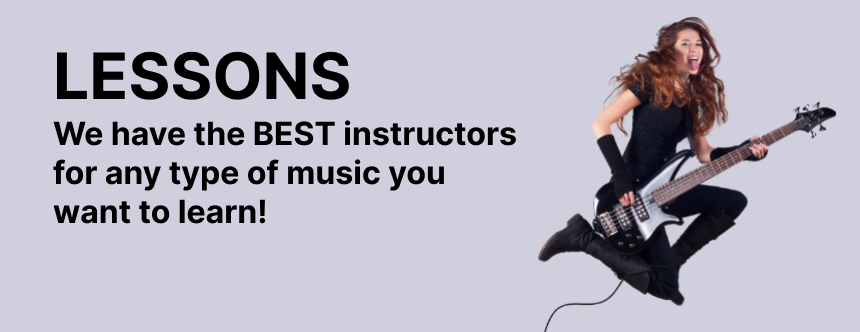
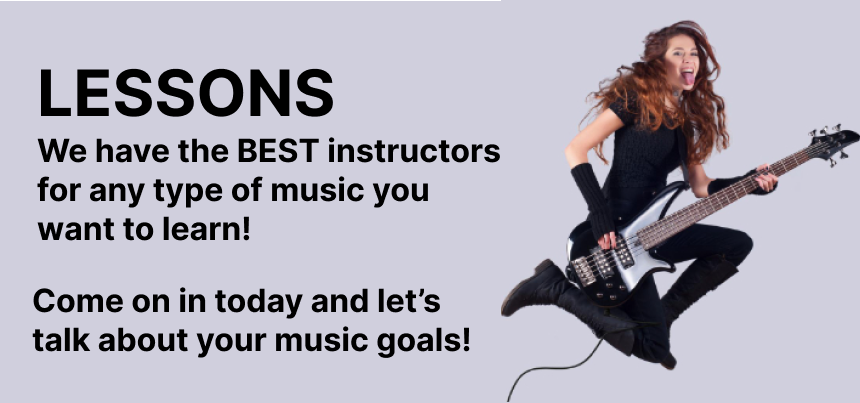
update hero

diff --git a/src/components/Hero.js b/src/components/Hero.js
@@ -1,20 +1,42 @@
-import styled from "styled-components"
+import styled from 'styled-components'
+import collen3 from '../images/collen3.jpg'
 
-const Hero = ({children, hero}) => {
+const Hero = () => {
   return (
-    <Wrapper className={hero}>
-        {children}
+    <Wrapper >
+     <img src={collen3} alt="" />
+     <div className='hero-content'>
+        sadfasdf
+     </div>
     </Wrapper>
-  )
+  ) 
 }
 
-const Wrapper = styled.div`
-  width: 95vw;
-  max-width: 1400px;  
-  margin: 0 auto;
+const Wrapper = styled.section`
+position: relative;
+    width: 95vw;
+    max-width: 1400px;
+    margin: 0 auto;
+    /* padding: 2rem 0; */
 
-  @media (max-width: 960px){
+   img {
+        width: 100%;
+        height: auto;
+   }
+
+   .hero-content {
+        position: absolute;
+        top: 20%;
+        right: 60%;
+   }
+   h1 {
+    color: white;
+   }
+
+
+@media (max-width: 900px){
     width: 100%;
-  }
+}
 `
+
 export default Hero

diff --git a/src/pages/Home.js b/src/pages/Home.js
@@ -1,22 +1,13 @@
-import {Hero} from '../components';
+
 import styled from 'styled-components';
-import {HomeFirstAd, MarshallSlider, Lessons} from '../components';
+import {HomeFirstAd, MarshallSlider, Lessons, Hero} from '../components';
 
 
 
 const Home = () => {
     return (
       <Wrapper >
-        <Hero hero="homeHero">
-          <div  className='banner' >
-            <div></div>
-            <div className='banner-content'>
-               <h1>Ibanez Guitars</h1>
-               <h2>Fall Sale Event</h2>
-               <h4>Thru Dec. 21</h4>
-            </div>
-          </div>
-        </Hero>
+        <Hero />
         <HomeFirstAd />
         <MarshallSlider />
         <Lessons />

diff --git a/src/components/Hero_old.js b/src/components/Hero_old.js
@@ -1,0 +1,20 @@
+import styled from "styled-components"
+
+const Hero = ({children, hero}) => {
+  return (
+    <Wrapper className={hero}>
+        {children}
+    </Wrapper>
+  )
+}
+
+const Wrapper = styled.div`
+  width: 95vw;
+  max-width: 1400px;  
+  margin: 0 auto;
+
+  @media (max-width: 960px){
+    width: 100%;
+  }
+`
+export default Hero

diff --git a/src/index.css b/src/index.css
@@ -114,10 +114,10 @@ p {
   min-height: calc(100vh - (5em + 4rem));
 }
 
-.homeHero {
+/* .homeHero {
 	min-height: calc(60vh + 9em);
-	background: url('./images/collen2.jpg');
+	background: url('./images/vivian.jpg');
 	background-position: center;
 	background-size: cover;
 	background-repeat: no-repeat;
-}
+} */

diff --git a/src/components/Lessons.js b/src/components/Lessons.js
@@ -29,11 +29,7 @@ padding-top: 0px;
         .lessons_md {
             display: none;
         }
-        
     }
-    
-    
-
 
 `
 export default Lessons
